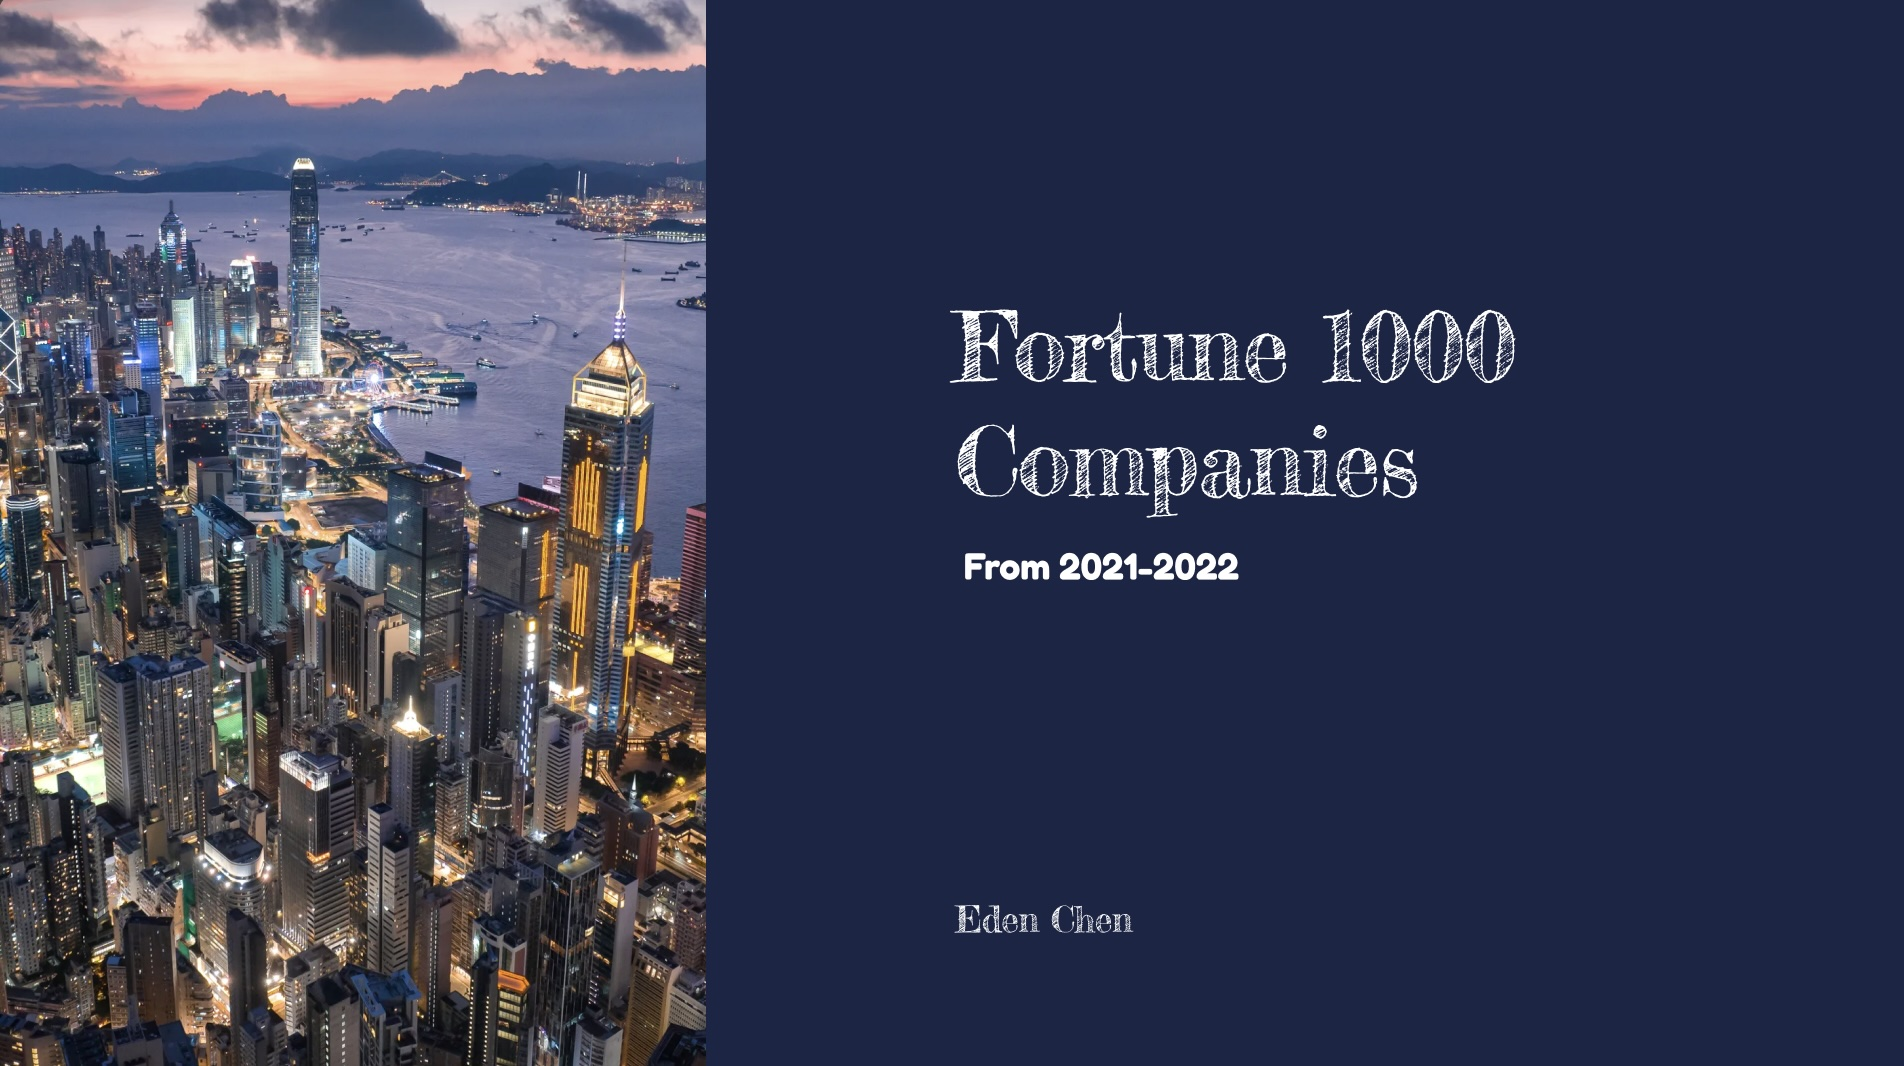
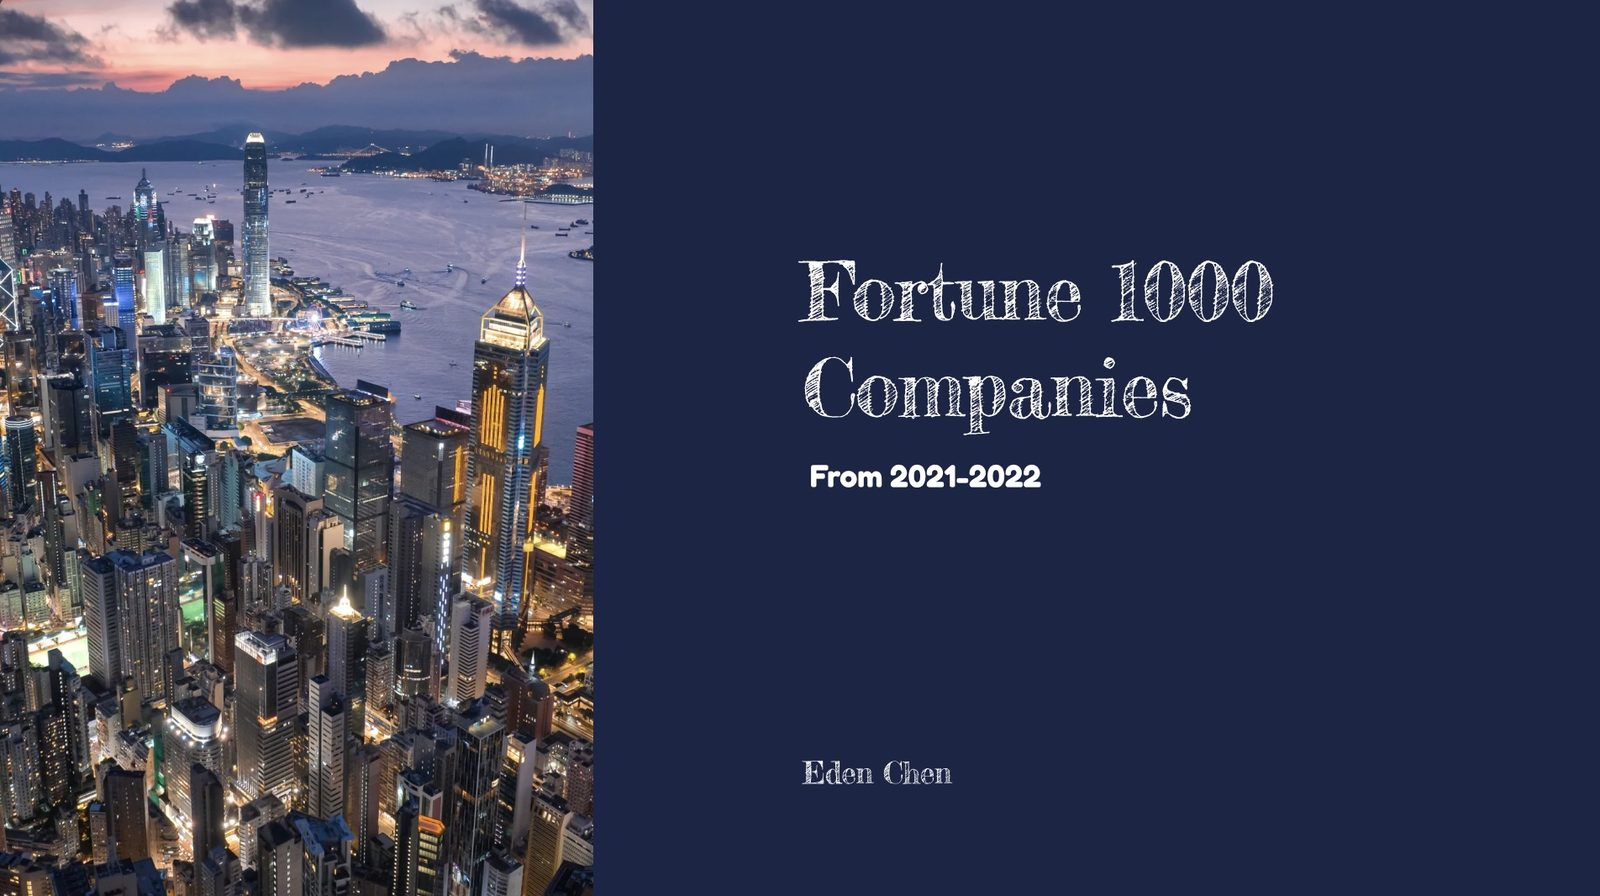
Add six-song rotating playlist with skip button; performance pass
- Player cycles Small Town, 稻香, Forever, Thinkin Bout You, Sunday Morning, Pluto Projector
- Resize oversized project photos (5.0MB and 2.6MB down to under 300KB)
- Modal backdrop blur only active while open
- Background blobs use gradients instead of live blur filters
- Throttle cursor, spotlight and scroll handlers to animation frames
- Lazy-load project images; load YouTube player after page load

Claude-Session: https://claude.ai/code/session_0166vifeLSX813uERfYYaYjE

Changed region(s): [[0.5312, 0.4062, 0.7188, 0.4688], [0.5312, 0.3125, 0.6562, 0.3438], [0.7188, 0.3125, 0.7812, 0.3438]]

diff --git a/index.html b/index.html
@@ -161,6 +161,8 @@
       font-size: 0.7rem; font-weight: 700; line-height: 1; cursor: pointer;
       display: flex; align-items: center; justify-content: center;
     }
+    .vinyl-next { font-size: 0.42rem; letter-spacing: -1px; background: var(--surface); margin-right: -6px; }
+    .vinyl-next:hover { background: var(--lemon); }
     .vinyl-panel {
       position: absolute; top: calc(100% + 10px); right: 0;
       width: 204px; height: 117px;
@@ -192,14 +194,13 @@
       position: fixed;
       z-index: 0;
       border-radius: 50%;
-      filter: blur(90px);
       pointer-events: none;
       opacity: 0.7;
       will-change: transform;
     }
-    .blob-a { width: 480px; height: 480px; top: -160px; left: -120px; background: #ffffff; animation: drift-a 22s ease-in-out infinite; }
-    .blob-b { width: 420px; height: 420px; top: 220px; right: -160px; background: #9fd0ee; animation: drift-b 26s ease-in-out infinite; }
-    .blob-c { width: 360px; height: 360px; bottom: -140px; left: 30%; background: rgba(255,242,92,0.35); animation: drift-c 30s ease-in-out infinite; }
+    .blob-a { width: 760px; height: 760px; top: -300px; left: -260px; background: radial-gradient(circle, #ffffff 0%, rgba(255,255,255,0.75) 25%, rgba(255,255,255,0) 68%); animation: drift-a 22s ease-in-out infinite; }
+    .blob-b { width: 700px; height: 700px; top: 80px; right: -300px; background: radial-gradient(circle, #9fd0ee 0%, rgba(159,208,238,0.75) 25%, rgba(159,208,238,0) 68%); animation: drift-b 26s ease-in-out infinite; }
+    .blob-c { width: 640px; height: 640px; bottom: -280px; left: calc(30% - 140px); background: radial-gradient(circle, rgba(255,242,92,0.35) 0%, rgba(255,242,92,0.26) 25%, rgba(255,242,92,0) 68%); animation: drift-c 30s ease-in-out infinite; }
 
     @keyframes drift-a { 0%,100% { transform: translate(0,0); } 50% { transform: translate(60px, 40px); } }
     @keyframes drift-b { 0%,100% { transform: translate(0,0); } 50% { transform: translate(-50px, 60px); } }
@@ -343,6 +344,7 @@
       min-height: 1.6em;
       display: flex;
       align-items: center;
+      contain: layout style;
     }
     .hero-type-row .type-text { color: var(--navy); background: linear-gradient(transparent 58%, var(--lemon) 58%); }
 
@@ -446,6 +448,7 @@
       display: flex;
       width: max-content;
       animation: ticker-scroll 26s linear infinite;
+      will-change: transform;
       gap: 0;
     }
     .ticker-wrap:hover .ticker-track { animation-play-state: paused; }
@@ -606,10 +609,10 @@
       backdrop-filter: blur(4px);
       display: flex; align-items: center; justify-content: center;
       padding: 24px;
-      opacity: 0; pointer-events: none;
-      transition: opacity 0.25s;
+      opacity: 0; pointer-events: none; visibility: hidden;
+      transition: opacity 0.25s, visibility 0s linear 0.25s;
     }
-    .modal-overlay.open { opacity: 1; pointer-events: auto; }
+    .modal-overlay.open { opacity: 1; pointer-events: auto; visibility: visible; transition: opacity 0.25s; }
     .modal-box {
       background: var(--surface);
       border: 3px solid var(--navy);
@@ -752,9 +755,10 @@
     <button class="vinyl-disc" id="vinylBtn" aria-label="Play or pause music" aria-pressed="false"></button>
     <div class="vinyl-info">
       <span class="vinyl-status" id="vinylStatus">♪ TAP TO PLAY</span>
-      <span class="vinyl-title"><mark>Small Town</mark></span>
-      <span class="vinyl-artist">Dominic Fike</span>
+      <span class="vinyl-title"><mark id="vinylTitle">Small Town</mark></span>
+      <span class="vinyl-artist" id="vinylArtist">Dominic Fike</span>
     </div>
+    <button class="vinyl-more vinyl-next" id="vinylNext" aria-label="Next song">&#9654;&#9654;</button>
     <button class="vinyl-more" id="vinylMore" aria-label="Show video player" aria-expanded="false">▾</button>
     <div class="vinyl-panel"><div id="ytPlayer"></div></div>
   </div>
@@ -806,7 +810,7 @@
 
       <div class="hero-image-wrap fade-up" style="animation-delay:0.15s">
         <div class="hero-img-frame">
-          <img src="images/headshot.jpg" alt="Eden Chen smiling in a professional headshot photo" />
+          <img src="images/headshot.jpg" width="810" height="806" decoding="async" alt="Eden Chen smiling in a professional headshot photo" />
         </div>
         <span class="chip-float chip-1">&gt; pmc event coord.</span>
         <span class="chip-float chip-2">&gt; valorant: top 0.01%</span>
@@ -941,7 +945,19 @@
   <script>
     // VINYL MUSIC PLAYER: streams the official YouTube upload, quietly, on repeat
     (function () {
-      const VIDEO_ID = '3CHgKR1OzlU', VOLUME = 15;
+      const VOLUME = 15;
+      const SONGS = [
+        { id: '3CHgKR1OzlU', title: 'Small Town',       artist: 'Dominic Fike' },
+        { id: 'sHD_z90ZKV0', title: '稻香',              artist: 'Jay Chou' },
+        { id: 'MXmQq7AkXYE', title: 'Forever',          artist: 'Noah Kahan' },
+        { id: '6JHu3b-pbh8', title: 'Thinkin Bout You', artist: 'Frank Ocean' },
+        { id: 'S2Cti12XBw4', title: 'Sunday Morning',   artist: 'Maroon 5' },
+        { id: 'Pi9J4epTWGM', title: 'Pluto Projector',  artist: 'Rex Orange County' }
+      ];
+      let songIdx = 0, errorStreak = 0;
+      const titleEl = document.getElementById('vinylTitle');
+      const artistEl = document.getElementById('vinylArtist');
+      const nextBtn = document.getElementById('vinylNext');
       const vinyl = document.getElementById('vinyl');
       const slot = document.getElementById('vinylSlot');
       const btn = document.getElementById('vinylBtn');
@@ -982,23 +998,43 @@
         status.textContent = on ? '♪ NOW PLAYING' : (userPaused ? '❚❚ PAUSED' : '♪ TAP TO PLAY');
       }
       function play() { if (ready) { player.setVolume(VOLUME); player.playVideo(); } }
+      function showSong() {
+        titleEl.textContent = SONGS[songIdx].title;
+        artistEl.textContent = SONGS[songIdx].artist;
+        place();
+      }
+      function nextSong() {
+        songIdx = (songIdx + 1) % SONGS.length;
+        showSong();
+        if (ready) { userPaused = false; player.setVolume(VOLUME); player.loadVideoById(SONGS[songIdx].id); }
+      }
 
       window.onYouTubeIframeAPIReady = function () {
         player = new YT.Player('ytPlayer', {
-          videoId: VIDEO_ID, width: 200, height: 113,
-          playerVars: { autoplay: 1, loop: 1, playlist: VIDEO_ID, playsinline: 1, rel: 0 },
+          videoId: SONGS[songIdx].id, width: 200, height: 113,
+          playerVars: { autoplay: 1, playsinline: 1, rel: 0 },
           events: {
             onReady: () => { ready = true; if (!userPaused) play(); },
             onStateChange: (e) => {
-              if (e.data === YT.PlayerState.ENDED) { player.seekTo(0); play(); }
+              if (e.data === YT.PlayerState.ENDED) { nextSong(); return; }
+              if (e.data === YT.PlayerState.PLAYING) errorStreak = 0;
               setPlaying(e.data === YT.PlayerState.PLAYING);
-            }
+            },
+            // If a song can't be played (removed or blocked in the visitor's region), skip to the next one.
+            onError: () => { if (++errorStreak < SONGS.length) nextSong(); }
           }
         });
       };
-      const tag = document.createElement('script');
-      tag.src = 'https://www.youtube.com/iframe_api';
-      document.head.appendChild(tag);
+      // Load the YouTube player only after the page itself has finished loading, so it doesn't compete with first paint.
+      function loadYT() {
+        if (loadYT.done) return; loadYT.done = true;
+        const tag = document.createElement('script');
+        tag.src = 'https://www.youtube.com/iframe_api';
+        document.head.appendChild(tag);
+      }
+      if (document.readyState === 'complete') loadYT(); else window.addEventListener('load', loadYT);
+
+      nextBtn.addEventListener('click', nextSong);
 
       btn.addEventListener('click', () => {
         if (!ready) return;
@@ -1127,7 +1163,7 @@
       card.style.animationDelay = (i * 0.06) + 's';
       card.innerHTML = `
         <div class="project-img-wrap">
-          <img class="project-img" src="${p.image}" alt="${p.alt}" />
+          <img class="project-img" src="${p.image}" alt="${p.alt}" loading="lazy" decoding="async" />
           <span class="project-number">${p.number}</span>
           ${p.badge ? `<span class="award-badge">${p.badge}</span>` : ''}
           <span class="expand-hint">expand +</span>
@@ -1209,11 +1245,18 @@
 
     // SPOTLIGHT CARD MOUSE TRACKING
     document.querySelectorAll('.spot-card').forEach(card => {
+      let queued = false, cx = 0, cy = 0;
       card.addEventListener('mousemove', (e) => {
-        const rect = card.getBoundingClientRect();
-        card.style.setProperty('--mx', (e.clientX - rect.left) + 'px');
-        card.style.setProperty('--my', (e.clientY - rect.top) + 'px');
-      });
+        cx = e.clientX; cy = e.clientY;
+        if (queued) return;
+        queued = true;
+        requestAnimationFrame(() => {
+          queued = false;
+          const rect = card.getBoundingClientRect();
+          card.style.setProperty('--mx', (cx - rect.left) + 'px');
+          card.style.setProperty('--my', (cy - rect.top) + 'px');
+        });
+      }, { passive: true });
     });
 
     // MAGNETIC BUTTONS
@@ -1235,15 +1278,19 @@
       const ring = document.getElementById('cursorRing');
       let mx = window.innerWidth/2, my = window.innerHeight/2;
       let rx = mx, ry = my;
+      let looping = false;
       window.addEventListener('mousemove', (e) => {
         mx = e.clientX; my = e.clientY;
-        dot.style.transform = `translate(${mx}px, ${my}px) translate(-50%,-50%)`;
-      });
+        if (!looping) { looping = true; requestAnimationFrame(loop); }
+      }, { passive: true });
+      // Runs only while the cursor is moving, then goes idle.
       function loop() {
+        dot.style.transform = `translate(${mx}px, ${my}px) translate(-50%,-50%)`;
         rx += (mx - rx) * 0.18;
         ry += (my - ry) * 0.18;
+        if (Math.abs(mx - rx) < 0.1 && Math.abs(my - ry) < 0.1) { rx = mx; ry = my; looping = false; }
         ring.style.transform = `translate(${rx}px, ${ry}px) translate(-50%,-50%)`;
-        requestAnimationFrame(loop);
+        if (looping) requestAnimationFrame(loop);
       }
       loop();
       document.querySelectorAll('a, button, .project-card, .tag').forEach(el => {
@@ -1266,10 +1313,18 @@
     // NAV ACTIVE STATE
     const sections = document.querySelectorAll('section[id]');
     const navLinks = document.querySelectorAll('.nav-links a');
+    let navQueued = false, navCurrent = null;
     window.addEventListener('scroll', () => {
-      let current = '';
-      sections.forEach(s => { if (window.scrollY >= s.offsetTop - 90) current = s.id; });
-      navLinks.forEach(a => { a.style.color = a.getAttribute('href') === '#' + current ? 'var(--lemon)' : ''; });
+      if (navQueued) return;
+      navQueued = true;
+      requestAnimationFrame(() => {
+        navQueued = false;
+        let current = '';
+        sections.forEach(s => { if (window.scrollY >= s.offsetTop - 90) current = s.id; });
+        if (current === navCurrent) return;
+        navCurrent = current;
+        navLinks.forEach(a => { a.style.color = a.getAttribute('href') === '#' + current ? 'var(--lemon)' : ''; });
+      });
     }, { passive: true });
   </script>
 </body>
